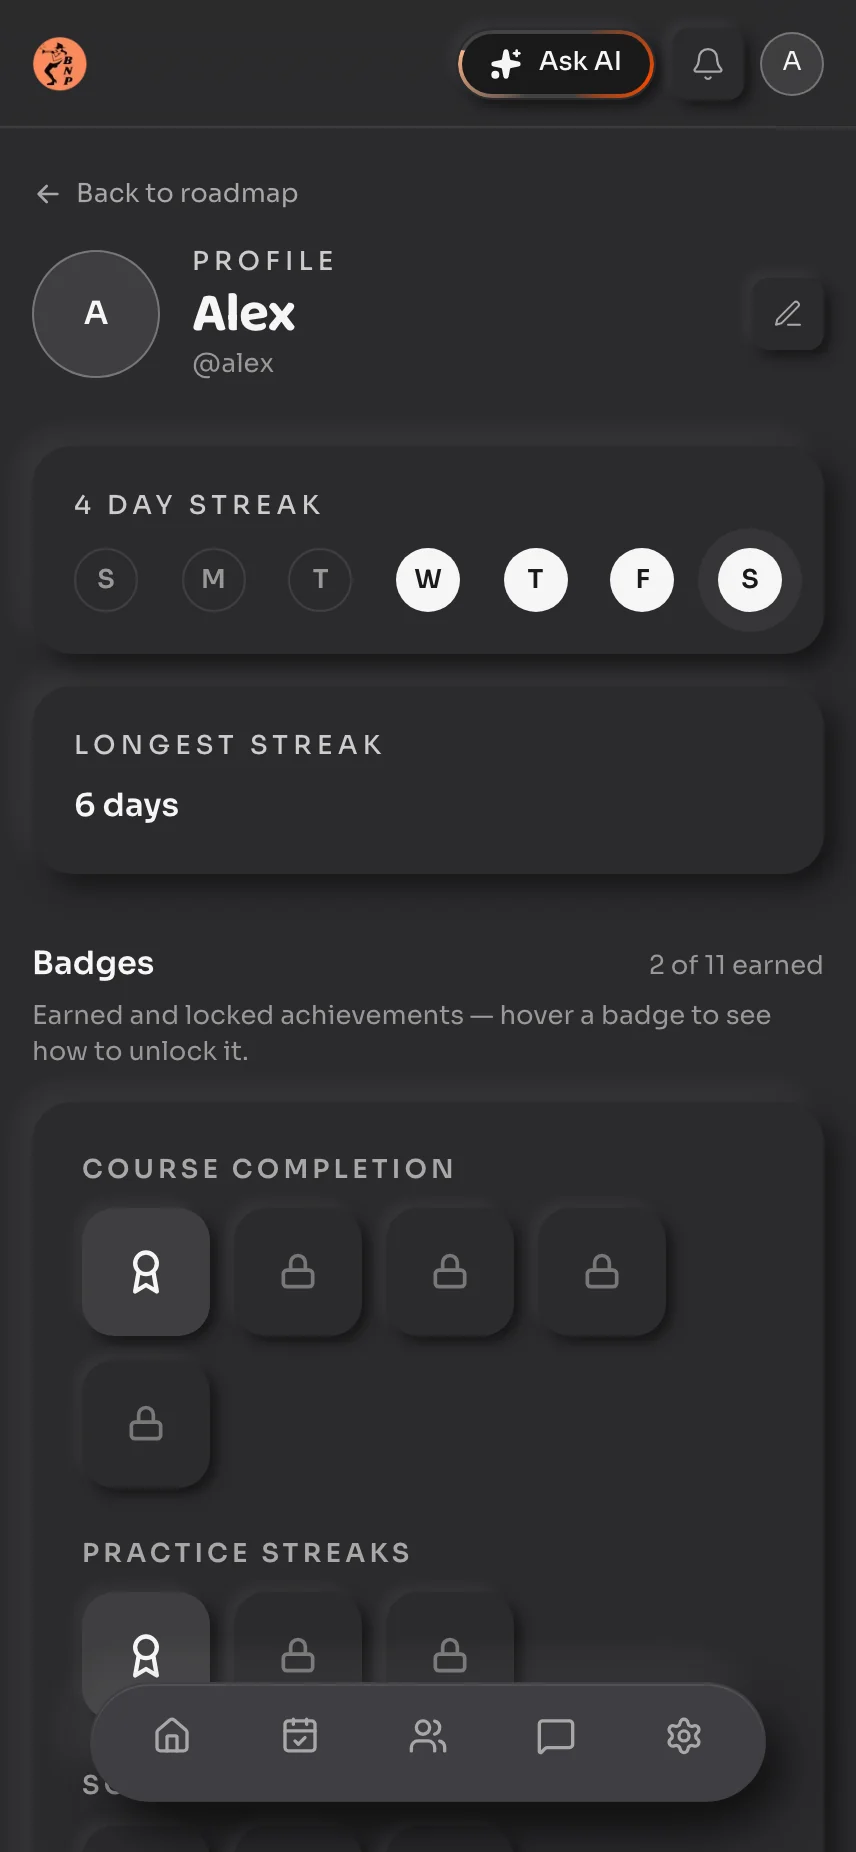
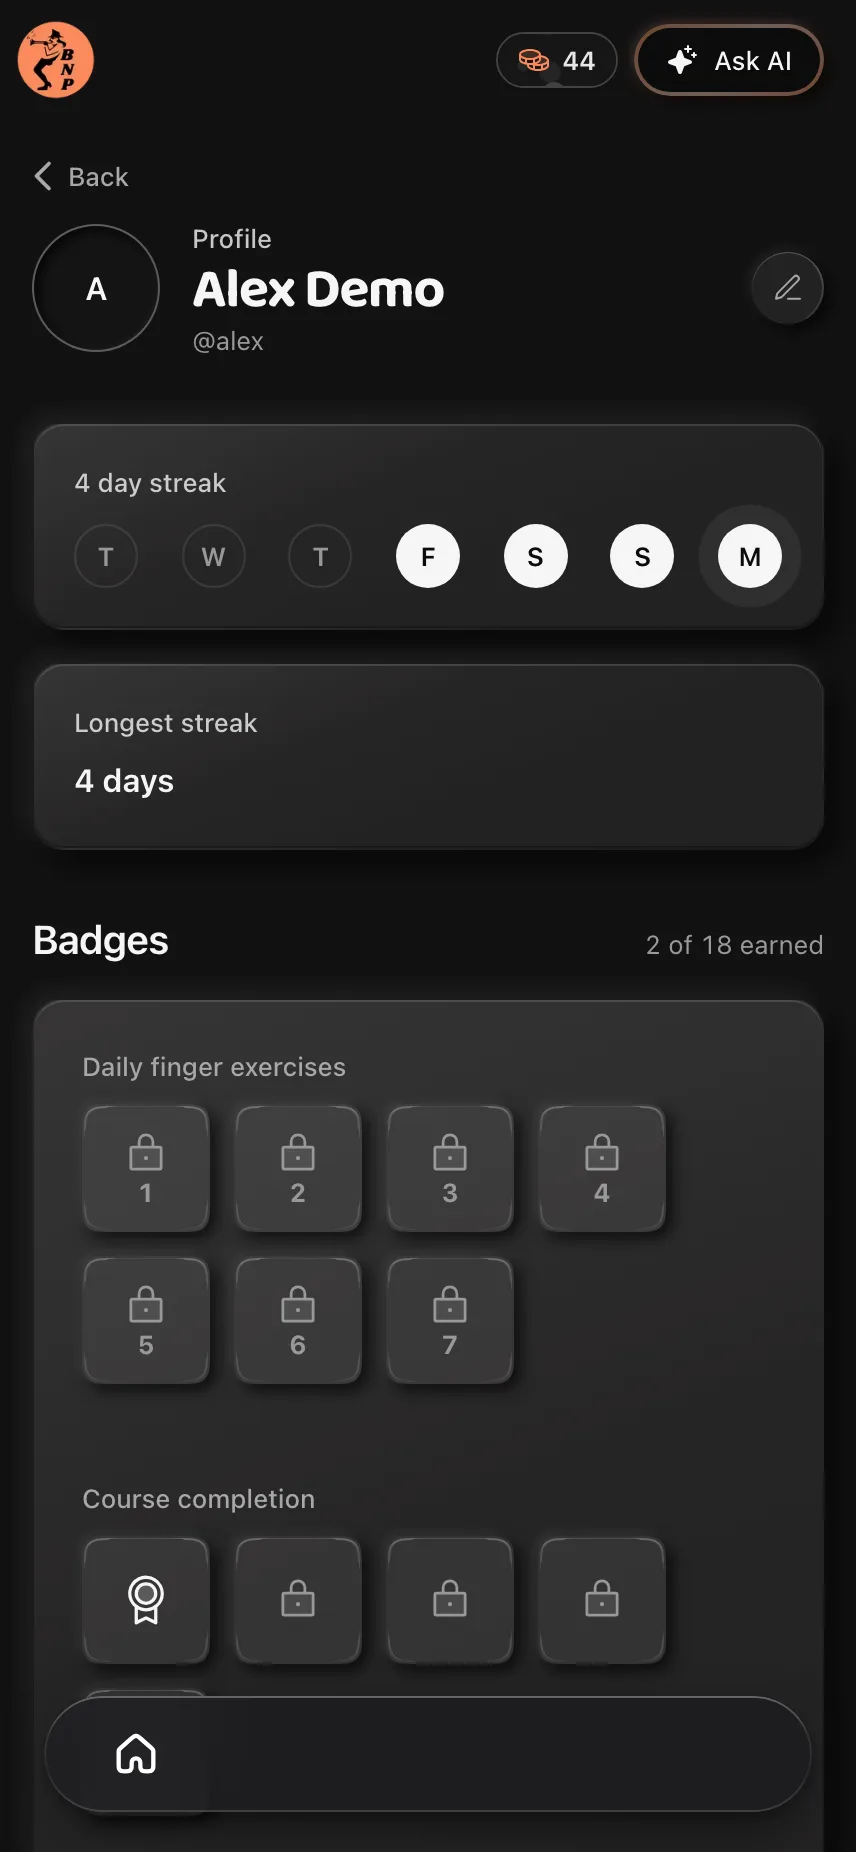
Homepage: fresh product screenshots of the current app
The twelve phone screenshots behind "Everything in one place" showed the app as it looked before the Home redesign (an Ask AI
pill in the bar, "Your next step" cards). Re-captured from the current app as the demo student at 428x926 at 2x, dark theme
except the Light mode one, with the blur placeholders rebuilt. The layout and copy around them are unchanged.

diff --git a/src/lib/blurPlaceholders.generated.ts b/src/lib/blurPlaceholders.generated.ts
@@ -1,6 +1,8 @@
 // Generated by scripts/make-blur-placeholders.mjs. Do not edit by hand.
 export const BLUR_PLACEHOLDERS: Record<string, string> = {
-  "/marketing/bass-guitar.jpg": "L36HAc~WF}TKE1E1M{Io029Z=Evz",
+  "/marketing/bass-guitar.jpg": "L36HAc~WF}TKE1E1M{Io029Z=Ev|",
+  "/marketing/hero-piano-poster.webp": "L13bEr9vEM-A}?I;IpxZI;oLafkB",
+  "/marketing/hero-poster.jpg": "L13bBj9vEM$%^iI;IpxZI;oLe:ba",
   "/shop/amazonbasics-61key.jpg": "LHQmCstRM{_3%MIVxu%M~q~qIUM{",
   "/shop/donner-dag1c.jpg": "LaO3wn9F9v?w?w%MxVVsx]xuogRj",
   "/shop/donner-daj110cd.jpg": "LlL;dFIo?H?v~q-pkWoLxabbV@R*",
@@ -10,16 +12,16 @@ export const BLUR_PLACEHOLDERS: Record<string, string> = {
   "/shop/rockjam-rj5061.jpg": "LnNKI-of~qt7IUWBs:xt-=xut6xu",
   "/shop/vangoa-guitar.jpg": "LcN^0i56D+?v*0-Vs*xZ$*x]bbV@",
   "/shop/veiyoumo-61key.jpg": "LaNwTWxu~qjZD%M{xu%M.8xu%2%M",
-  "/screenshots/bass.webp": "L27dOTF{Eh}@]hADbb=d0gjF$fn%",
-  "/screenshots/chords.webp": "L04.9=_N%M_3IUV@WBWBD$WBj@WB",
-  "/screenshots/classes.webp": "L05hV@~qs.^,xZV@xasl-ps9V@o0",
-  "/screenshots/guitar.webp": "L27m]IKjAE^Q}9ADX8-A0MNG$fxG",
-  "/screenshots/lesson.webp": "L67^xxOENG-U00xZt7R*?wxEaeNw",
-  "/screenshots/light.webp": "LJP%Iu^+ae~q$*V@oLoftRWBWBn%",
-  "/screenshots/metronome.webp": "L67Ab*xaNbxZ0fNaxFR+}XoJR+oK",
-  "/screenshots/path.webp": "L05q^m~qs8?HaJsm%2xaM{V?aext",
-  "/screenshots/piano.webp": "L29t4GAH01~BHXJAxu,;00xa_3M{",
-  "/screenshots/profile.webp": "L05#hU~qRP~q^+M_jFxas:xuoJV?",
-  "/screenshots/roadmap.webp": "L36@$j}@aKXm=x-AoLNaEMXSoynh",
-  "/screenshots/settings.webp": "L15hY~_3t7-pxtt6xus:%2oLs:t7"
+  "/screenshots/bass.webp": "L15;p,KjEj^P#RJ8xZ-A00wI=wRj",
+  "/screenshots/chords.webp": "L042M3^,Rj?b4nRjs;WA00V@t7V@",
+  "/screenshots/classes.webp": "L35;w2?HW;xZ}TsnkCxG],niWVs:",
+  "/screenshots/guitar.webp": "L067$NLL5p}@[VE%-U^400ic}=sm",
+  "/screenshots/lesson.webp": "L671ZfbvM{xa00nixuWB_NxGRjbI",
+  "/screenshots/light.webp": "LOO{:c?GtR?HL#n%t6V@~qWBRjs:",
+  "/screenshots/metronome.webp": "L34_CCxaNbxG0zR+xFWV}AsmS2oK",
+  "/screenshots/path.webp": "L042PC~VI9^+xv$g-U%M4Tnh?a$%",
+  "/screenshots/piano.webp": "L18zx@O@00}@00Nw-;$i00rX~qIo",
+  "/screenshots/profile.webp": "L04_qa~W8__3w]IAVs%100nO%1em",
+  "/screenshots/roadmap.webp": "LOB_#a%1S3sT}rs:R+n%WBayj[j[",
+  "/screenshots/settings.webp": "L368BP~W-;-;00DiMxMx?H%Lxuxa"
 };
